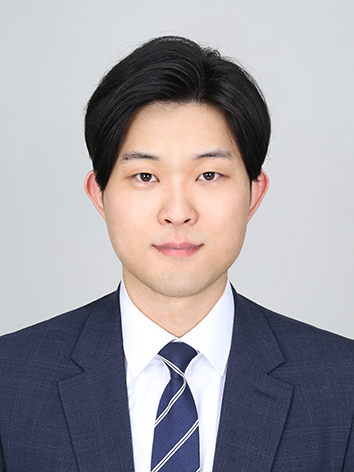
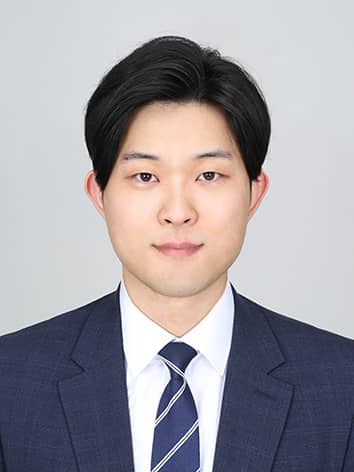
update: optimize images and add meta data

diff --git a/public/index.html b/public/index.html
@@ -4,40 +4,26 @@
     <meta charset="utf-8" />
     <link rel="icon" href="%PUBLIC_URL%/favicon.ico" />
     <meta name="viewport" content="width=device-width, initial-scale=1" />
-    <meta name="theme-color" content="#000000" />
-    <meta
-      name="description"
-      content="Web site created using create-react-app"
-    />
-    <link rel="apple-touch-icon" href="%PUBLIC_URL%/logo192.png" />
-    <!--
-      manifest.json provides metadata used when your web app is installed on a
-      user's mobile device or desktop. See https://developers.google.com/web/fundamentals/web-app-manifest/
-    -->
+    <meta name="author" content="Sehyeon Park">
+    <meta name="keywords" content="웹개발자, 프론트엔드, 포트폴리오, front-end, developer, programmer, coding, 코딩, 주니어 개발자, 신입 개발자">
+    <meta name="description" content="주니어 Front-end 개발자 박세현의 포트폴리오입니다.">
+    <meta property="og:url" content="https://keeper991.github.io/">
+    <meta property="og:type" content="website">
+    <meta property="og:title" content="Sehyeon Park's Portfolio">
+    <meta property="og:description" content="주니어 Front-end 개발자 박세현의 포트폴리오입니다.">
+    <meta property="og:image" content="%PUBLIC_URL%/ogImage.jpg">
+    <meta name="twitter:card" content="summary_large_image">
+    <meta property="twitter:domain" content="">
+    <meta property="twitter:url" content="https://keeper991.github.io/">
+    <meta name="twitter:title" content="Sehyeon Park's Portfolio">
+    <meta name="twitter:description" content="주니어 Front-end 개발자 박세현의 포트폴리오입니다.">
+    <meta name="twitter:image" content="%PUBLIC_URL%/ogImage.jpg">
     <link rel="manifest" href="%PUBLIC_URL%/manifest.json" />
-    <!--
-      Notice the use of %PUBLIC_URL% in the tags above.
-      It will be replaced with the URL of the `public` folder during the build.
-      Only files inside the `public` folder can be referenced from the HTML.
-
-      Unlike "/favicon.ico" or "favicon.ico", "%PUBLIC_URL%/favicon.ico" will
-      work correctly both with client-side routing and a non-root public URL.
-      Learn how to configure a non-root public URL by running `npm run build`.
-    -->
+    <link rel="preconnect" href="https://fonts.gstatic.com"> 
+    <link href="https://fonts.googleapis.com/css2?family=Anton&family=Oswald:wght@200;300;400;500;600;700&display=swap" rel="stylesheet">
     <title>Sehyeon Park's Portfolio</title>
   </head>
   <body>
-    <noscript>You need to enable JavaScript to run this app.</noscript>
     <div id="root"></div>
-    <!--
-      This HTML file is a template.
-      If you open it directly in the browser, you will see an empty page.
-
-      You can add webfonts, meta tags, or analytics to this file.
-      The build step will place the bundled scripts into the <body> tag.
-
-      To begin the development, run `npm start` or `yarn start`.
-      To create a production bundle, use `npm run build` or `yarn build`.
-    -->
   </body>
 </html>

diff --git a/src/Routes/Projects.js b/src/Routes/Projects.js
@@ -1,10 +1,10 @@
 import Section from "Components/Section";
 import styled from "styled-components";
 import Project from "Components/Project.js";
-import PortfolioImg from "Images/portfolio.png";
-import MetubeImg from "Images/metube.png";
-import BbangflixImg from "Images/bbangflix.png";
-import CTWImg from "Images/ctw.png";
+import PortfolioImg from "Images/portfolio.jpg";
+import MetubeImg from "Images/metube.jpg";
+import BbangflixImg from "Images/bbangflix.jpg";
+import CTWImg from "Images/ctw.jpg";
 import ProjectsData from "ProjectsData";
 
 const Container = styled.div`

diff --git a/README.md b/README.md
@@ -2,6 +2,17 @@
 
 Portfolio Page made by React.js.
 
+## Improvements
+
+- [x] image size 변경 (모바일 환경 시, 더 작은 사이즈 로딩)
+- [x] meta Data 추가(+ opengraph)
+- [ ] 메뉴 시인성
+- [ ] 전반적인 디자인 수정
+- [ ] "Wanna be a full ~" 삭제 (및 다른 컨텐츠 대체)
+- [ ] 프로젝트 개인/단체 유무 표시
+- [ ] 사용 스택 더 추가.
+- [ ] 최신기술 사용한 프로젝트 추가
+
 ## Work History
 
 ### Header
